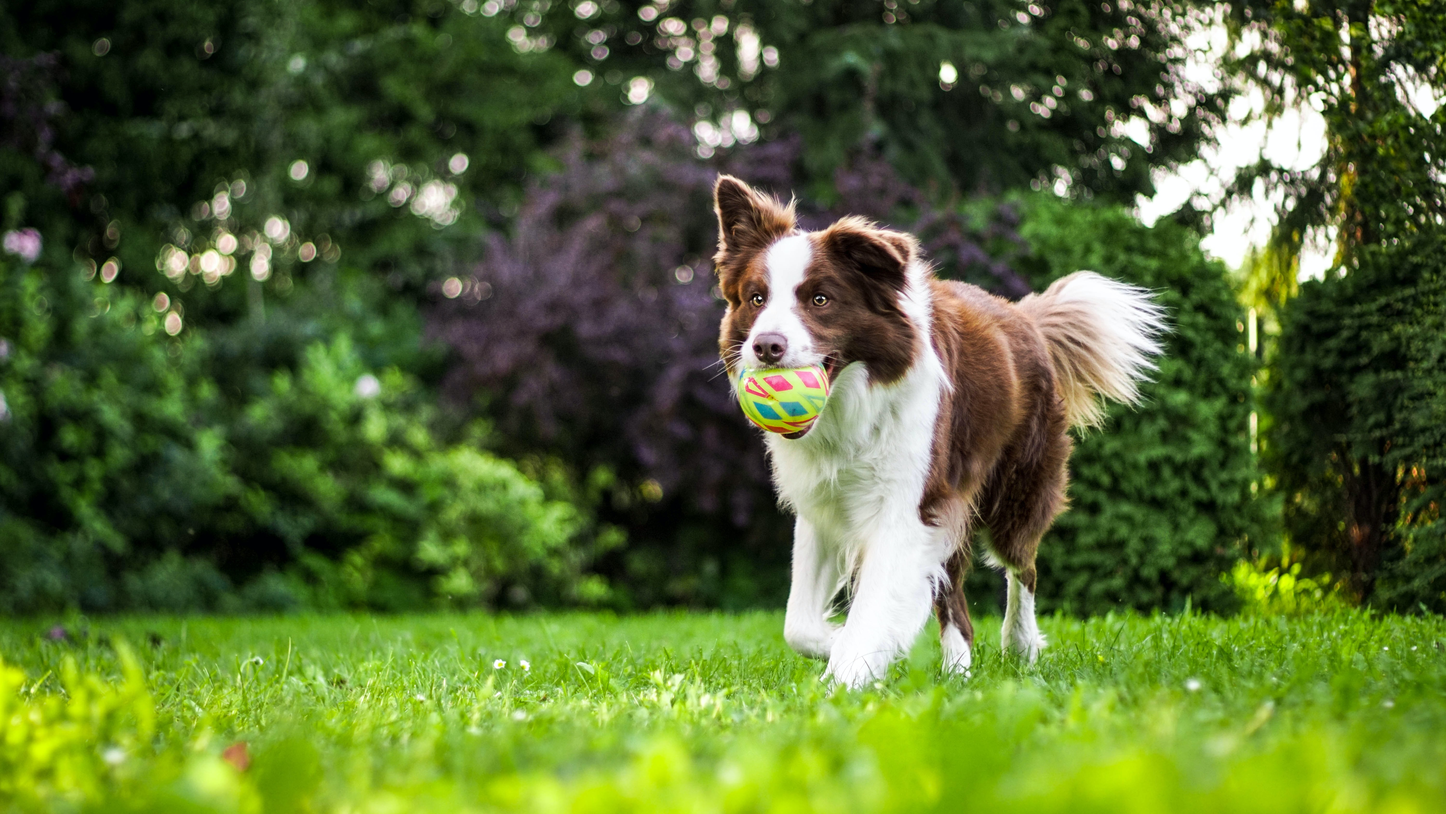
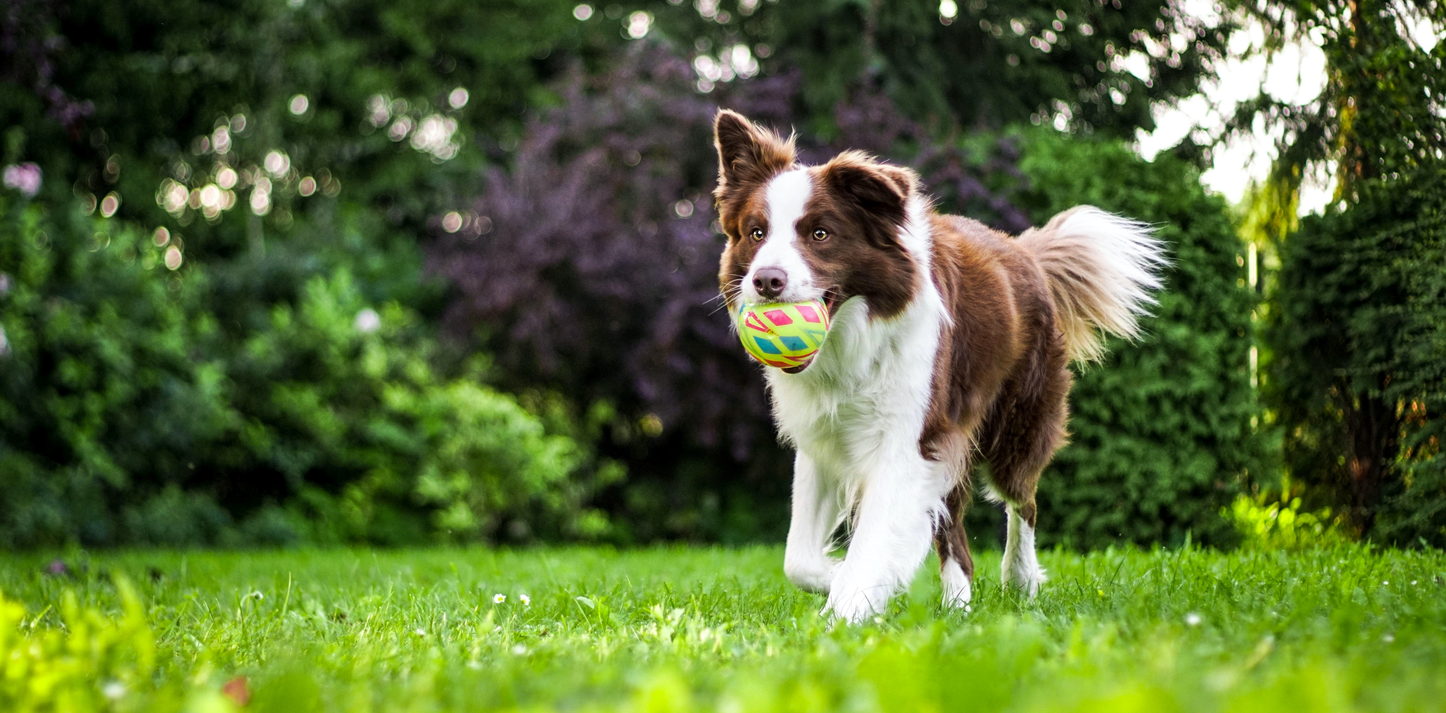
woot woot

diff --git a/day7/index.html b/day7/index.html
@@ -1,0 +1,67 @@
+<!doctype html>
+<html lang="en">
+  <head>
+    <!-- Required meta tags -->
+    <meta charset="utf-8">
+    <meta name="viewport" content="width=device-width, initial-scale=1">
+
+    <!-- Bootstrap CSS -->
+    <link href="https://cdn.jsdelivr.net/npm/bootstrap@5.1.3/dist/css/bootstrap.min.css" rel="stylesheet" integrity="sha384-1BmE4kWBq78iYhFldvKuhfTAU6auU8tT94WrHftjDbrCEXSU1oBoqyl2QvZ6jIW3" crossorigin="anonymous">
+
+    <link rel="stylesheet" href="style.css">
+
+    <title>Hello, world!</title>
+  </head>
+  <body>
+    <header>
+      <nav class="container fs-5">
+        <div class="row pt-4">
+          <div class="col-md-6 col-sm-12 text-sm-center text-md-start">
+            <ul class="list-unstyled">
+              <li class="list-inline-item">
+                <a href="index.html" class="text-reset fw-bolder text-decoration-none">
+                  Speakers of Music
+                </a>
+              </li>
+            </ul>
+          </div>
+          <div class="col-md-6 col-sm-12 text-sm-center text-md-end">
+            <ul class="list-unstyled d-md-flex justify-content-md-end">
+              <li class="list-inline-item">
+                <a href="#speakers" class="text-reset fw-bolder text-decoration-none">
+                  Speakers
+                </a>
+              </li>
+
+              <li class="list-inline-item">
+                <a href="#tickets" class="text-reset fw-bolder  text-decoration-none">
+                  Tickets
+                </a>
+              </li>
+
+              <li class="list-inline-item">
+                <a href="#venue" class="text-reset fw-bolder text-decoration-none">
+                  Venue
+                </a>
+              </li>
+            </ul>
+          </div>
+        </div>
+      </nav>
+    </header>
+
+    <section class="jumbotron">
+    </section>
+    <section id="speakers">
+    </section>
+    <section id="tickets">
+    </section>
+    <section id="venue">
+    </section>
+   
+
+    <!-- Option 1: Bootstrap Bundle with Popper -->
+    <script src="https://cdn.jsdelivr.net/npm/bootstrap@5.1.3/dist/js/bootstrap.bundle.min.js" integrity="sha384-ka7Sk0Gln4gmtz2MlQnikT1wXgYsOg+OMhuP+IlRH9sENBO0LRn5q+8nbTov4+1p" crossorigin="anonymous"></script>
+
+  </body>
+</html>

diff --git a/Final/recipes.html b/Final/recipes.html
@@ -34,6 +34,8 @@
   <!-- nav -->
   
   <!-- add hero image -->
+
+  <img src="./media/dog with ball.jpg" alt="a" width="100%">
   <h1>The Recipes</h1>
   <h2>Dogs, Cats, and Small Animals</h2>
 
@@ -92,9 +94,11 @@
   
   <div id="OP" class="tabcontent" style="display: none;">
     <h3>Collar Bandanas</h3>
-    <p>Loop-through for collars and scrunchie forms, in five different sizes and any number of patterns. <br> Here's a quick look - customs are also available!</p>
+    <p>Loop-through for collars and scrunchie forms, in five different sizes and any number of patterns. 
+      <!-- <br> Here's a quick look - customs are also available!</p> -->
     <h3>Bow- and Neck-Ties</h3>
-    <p>Elastic loops to thread onto a collar and scrunchie forms, in five different sizes and any number of patterns. <br> Here's a quick look - customs are also available!</p>
+    <p>Elastic loops to thread onto a collar and scrunchie forms, in five different sizes and any number of patterns. 
+      <!-- <br> Here's a quick look - customs are also available!</p> -->
     <h3>Snuffle Mats</h3>
     <p>Treat hiding pockets, ruffles, and twists to make your pet use their nose! <br> Available in three different sizes and customizable color options.</p>
   </div>

diff --git a/Final/order.html b/Final/order.html
@@ -33,6 +33,7 @@
     </nav>
   <!-- nav -->
 
+  <img src="./media/two dogs.jpg" alt="a" width="100%">
 
 
 
